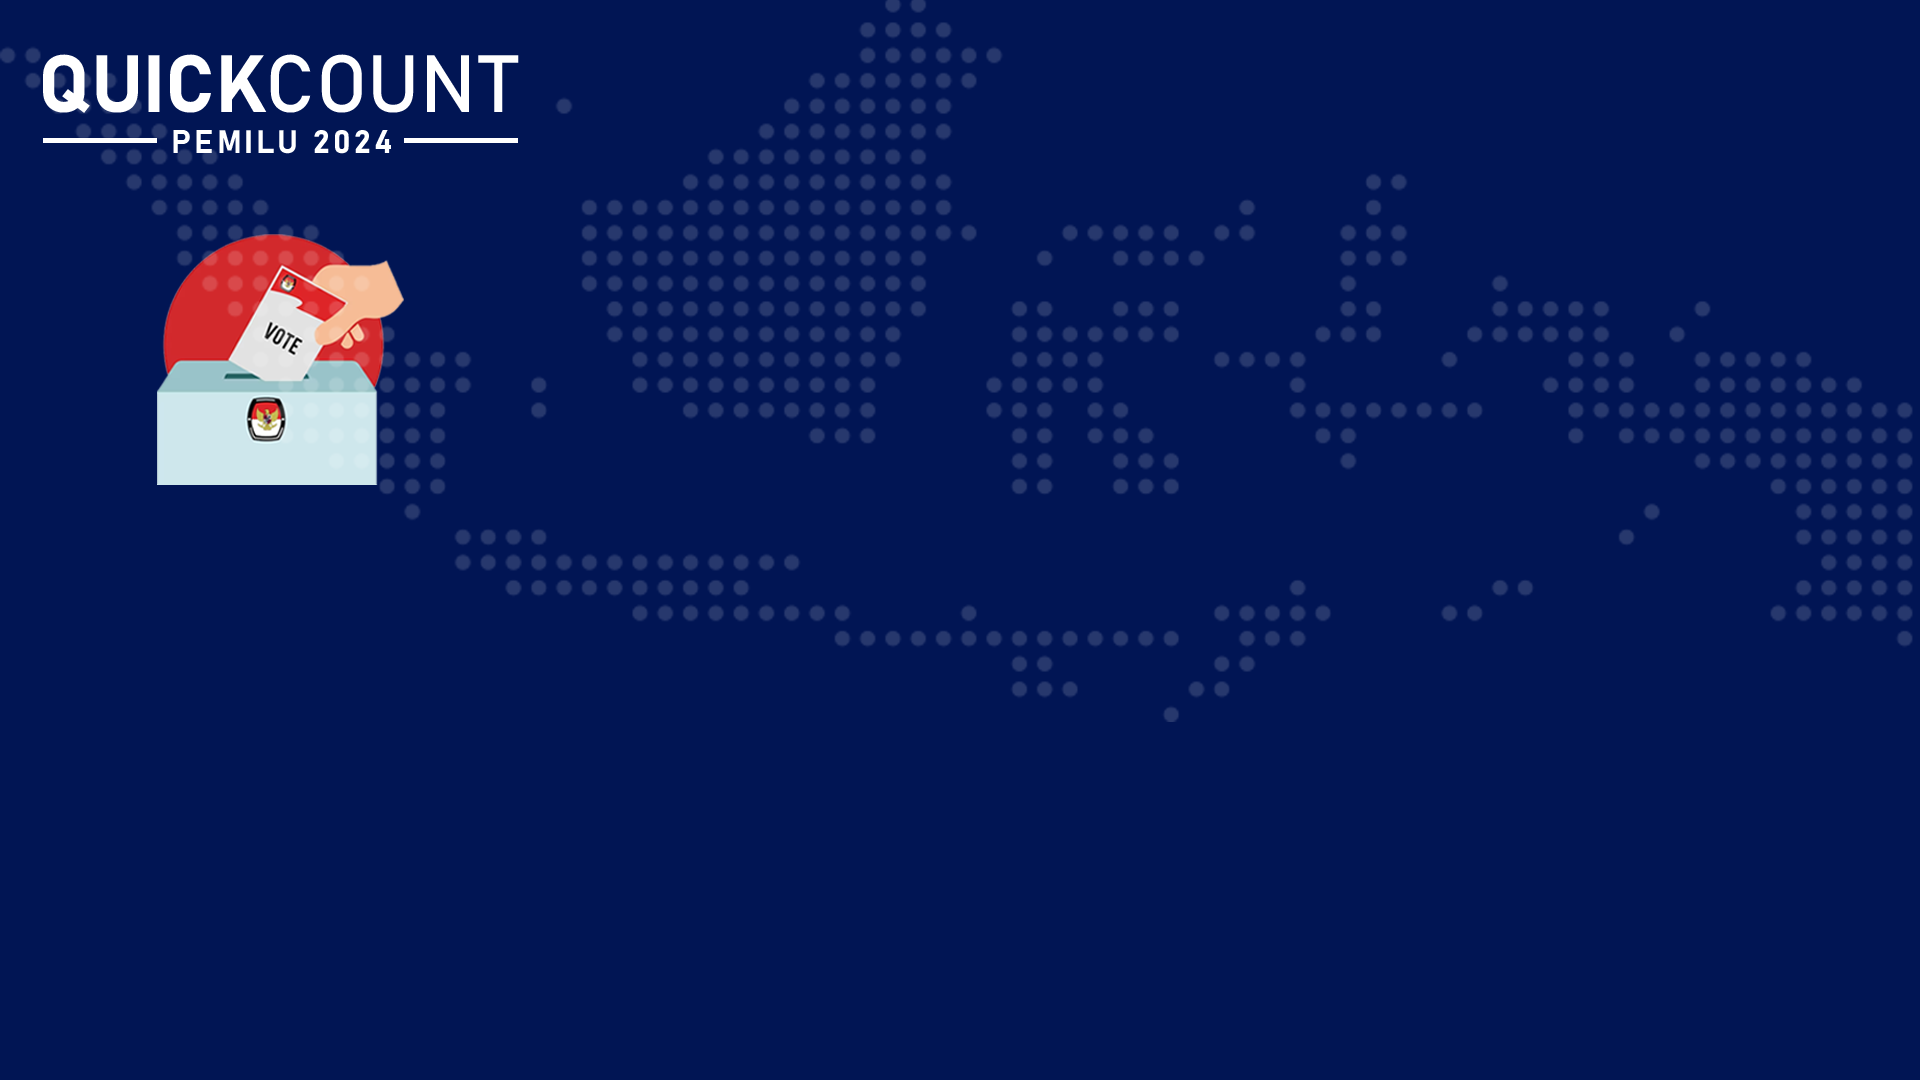
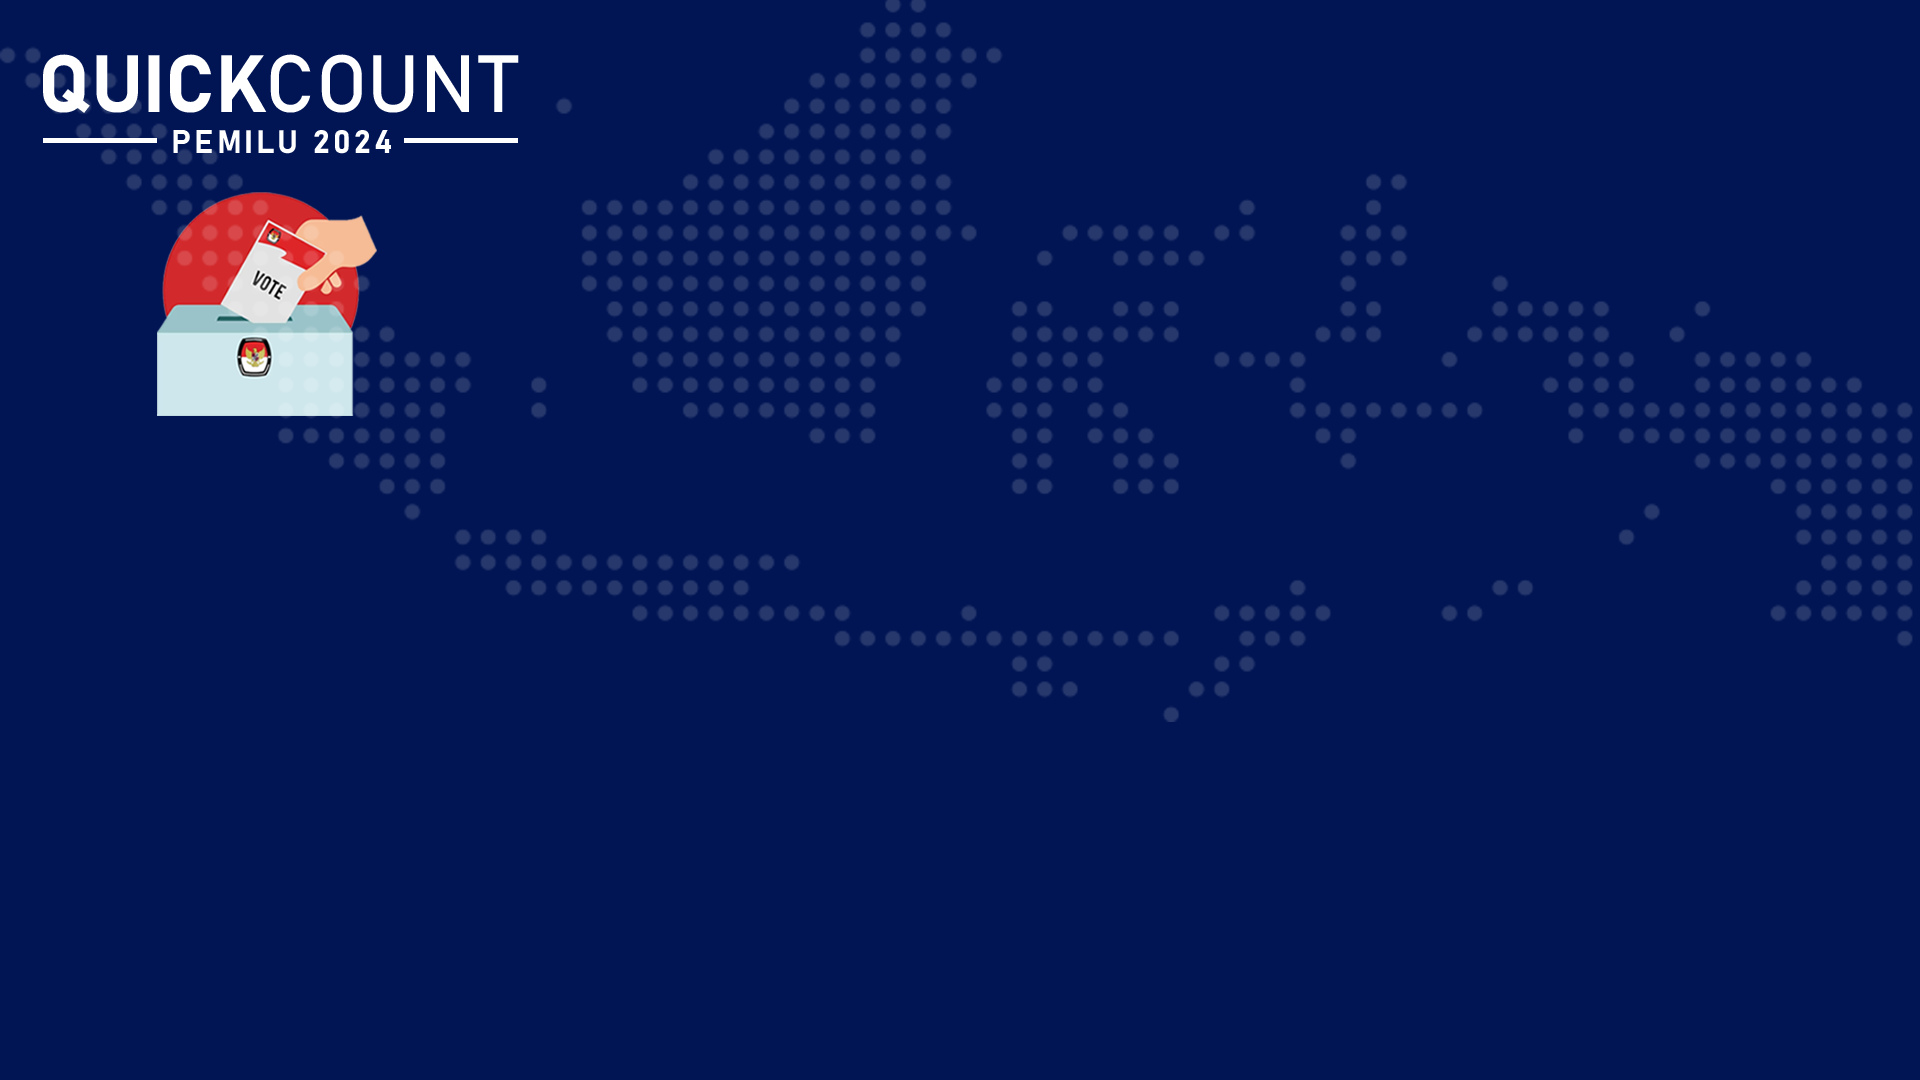
[UPDATE] dashboard

Changed region(s): [[0.0625, 0.1528, 0.2188, 0.4583]]

diff --git a/index.php b/index.php
@@ -11,12 +11,23 @@
     <script src="https://cdn.jsdelivr.net/npm/bootstrap@5.3.2/dist/js/bootstrap.bundle.min.js" integrity="sha384-C6RzsynM9kWDrMNeT87bh95OGNyZPhcTNXj1NW7RuBCsyN/o0jlpcV8Qyq46cDfL" crossorigin="anonymous"></script>
 </head>
 <style>
-  html {height:100%; width:100%; margin:0px; padding:0px;}
+  html {
+    position: absolute;
+    width: 100vw;
+    height: 100vh;
+    overflow: hidden;
+    margin: 0;
+    padding: 0;
+    --web-scale-to-fit: true;
+    --web-scale-on-resize: true;
+    --web-refresh-for-changes: true;
+    --web-enable-deep-linking: true;
+  }
   body {
-    height:100%; width:100%; margin:0px; padding:0px;
     background-image: url(image/bg-qc.png);
     background-size: 100%;
     font-family: 'Poppins', sans-serif;
+   position: absolute;
   }
   .paslon {
     float: right;
